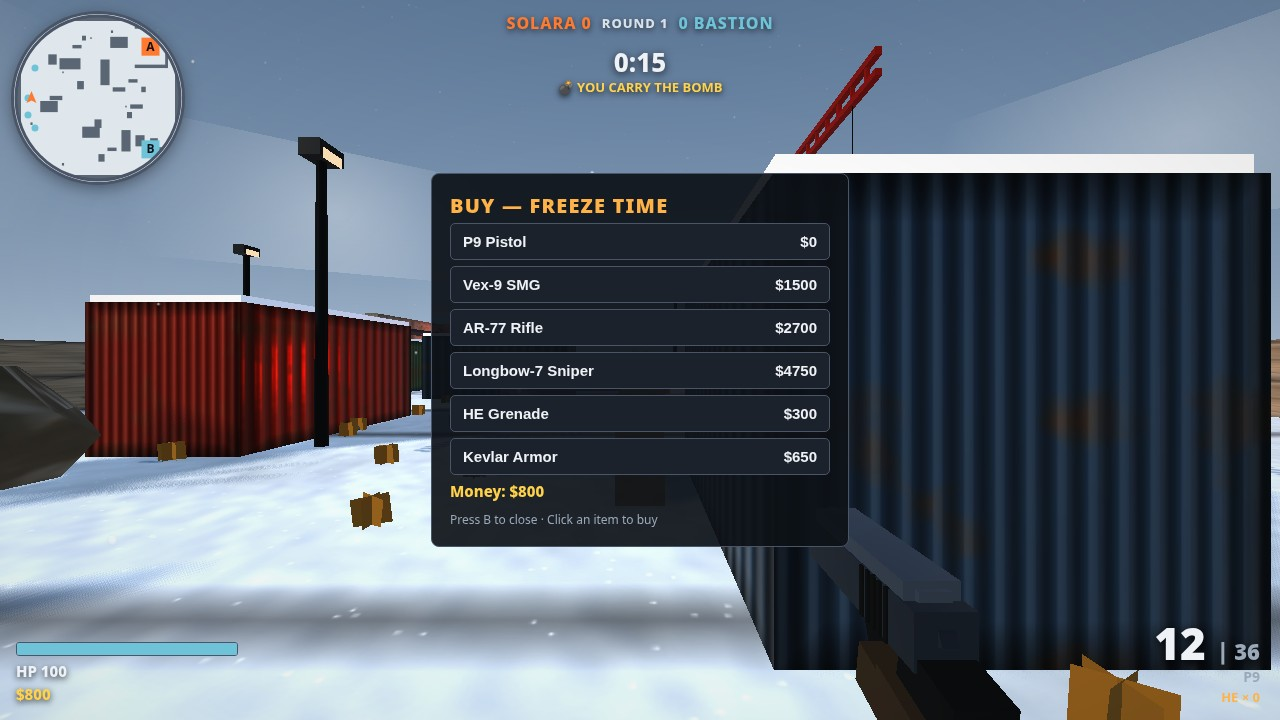
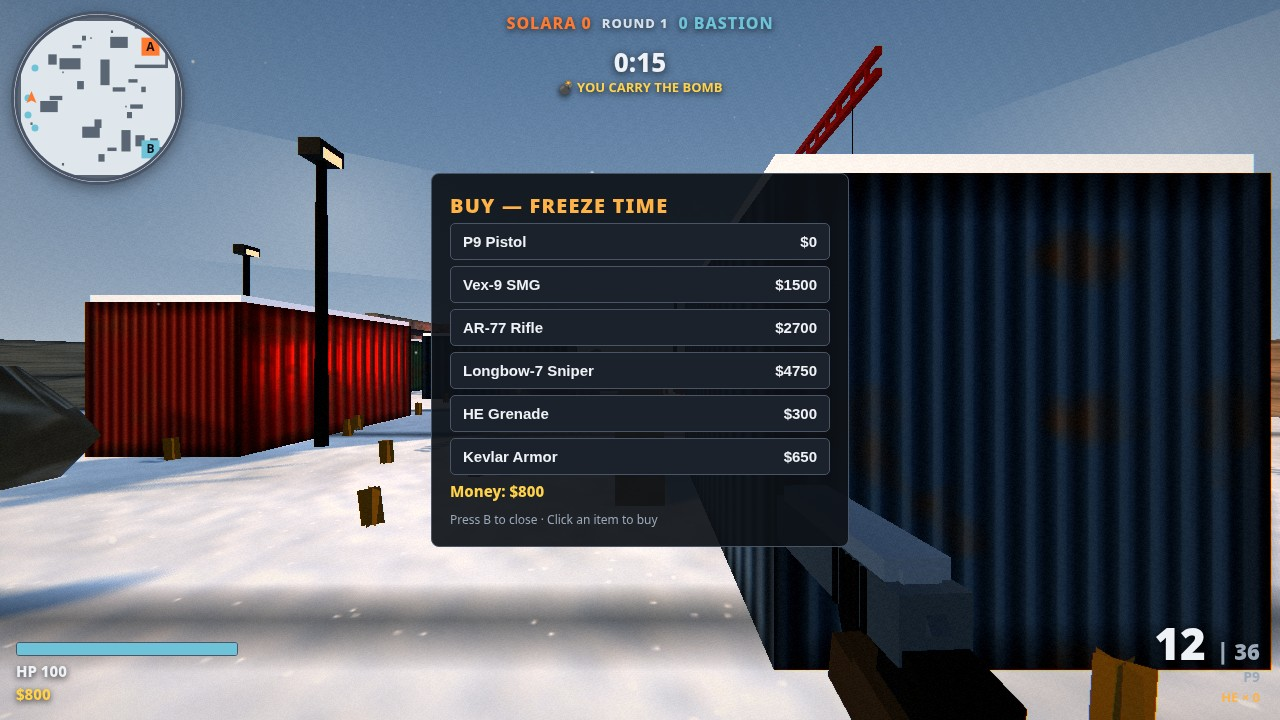
FROSTLINE v3.2: CoD pass — teal-orange grade + grain, big AR-77 viewmodel, warm/cool light, tracer in play shot, rubble + second fire

diff --git a/game/src/weapons.js b/game/src/weapons.js
@@ -78,13 +78,15 @@ let _mats = null;
 function mats() {
   if (_mats) return _mats;
   _mats = {
-    gunmetal: new THREE.MeshStandardMaterial({ color: 0x565e68, roughness: 0.42, metalness: 0.85 }),
-    gunmetalLight: new THREE.MeshStandardMaterial({ color: 0x7d8590, roughness: 0.38, metalness: 0.9 }),
+    gunmetal: new THREE.MeshStandardMaterial({ color: 0x707880, roughness: 0.42, metalness: 0.85 }), // v3.2: lighter — the gun read as a black slab (was 0x565e68)
+    gunmetalLight: new THREE.MeshStandardMaterial({ color: 0x9aa1ab, roughness: 0.38, metalness: 0.9 }), // v3.2: brighter edge metal (was 0x7d8590)
     polymer: new THREE.MeshStandardMaterial({ color: 0x1e2124, roughness: 0.85, metalness: 0.1 }),
+    fde: new THREE.MeshStandardMaterial({ color: 0x6b5a44, roughness: 0.8, metalness: 0.05 }), // flat dark earth furniture
+    wornDark: new THREE.MeshStandardMaterial({ color: 0x2a2e33, roughness: 0.6, metalness: 0.6 }), // worn / oiled steel
     wood: new THREE.MeshStandardMaterial({ color: 0x5a4028, roughness: 0.8, metalness: 0.0 }),
     glove: new THREE.MeshStandardMaterial({ color: 0x54483a, roughness: 0.95, metalness: 0.0 }),
     gloveCuff: new THREE.MeshStandardMaterial({ color: 0x6a5f4c, roughness: 0.95, metalness: 0.0 }),
-    glass: new THREE.MeshStandardMaterial({ color: 0x9fc4d8, roughness: 0.1, metalness: 0.4, emissive: 0x1a2c38, transparent: true, opacity: 0.5 }),
+    glass: new THREE.MeshStandardMaterial({ color: 0x9fc4d8, roughness: 0.1, metalness: 0.4, emissive: 0x2a4a5c, transparent: true, opacity: 0.65 }), // v3.2: glass reads (was emissive 0x1a2c38, opacity 0.5)
     reticle: new THREE.MeshBasicMaterial({ color: 0xff2222 }),
   };
   return _mats;
@@ -92,14 +94,16 @@ function mats() {
 
 // Holographic sight (EOTech-style): housing + hollow window + glass with a
 // glowing red reticle dot. The glass/dot face +Z, toward the shooter's eye.
-function holoSight(x, y, z) {
+// `s` scales the whole sight — CoD sights are big and prominent.
+function holoSight(x, y, z, s = 1) {
   const M = mats();
   const g = new THREE.Group();
   g.position.set(x, y, z);
-  g.add(box(0.05, 0.045, 0.08, M.gunmetal, 0, 0, 0)); // housing
+  g.scale.setScalar(s);
+  g.add(box(0.05, 0.045, 0.08, M.gunmetalLight, 0, 0, 0)); // housing, light metal so it reads
   g.add(box(0.04, 0.035, 0.082, M.polymer, 0, 0, 0)); // hollow window interior
   g.add(box(0.038, 0.032, 0.005, M.glass, 0, 0, 0.01)); // glass
-  const dot = new THREE.Mesh(new THREE.CircleGeometry(0.003, 8), M.reticle);
+  const dot = new THREE.Mesh(new THREE.CircleGeometry(0.0055, 8), M.reticle); // v3.2: bigger dot (was 0.003)
   dot.position.set(0, 0, 0.011);
   g.add(dot);
   return g;
@@ -176,23 +180,42 @@ export function buildViewmodel(id) {
     group.add(box(0.045, 0.14, 0.06, M.polymer, 0, -0.095, -0.10, 0.12)); // long mag
     group.add(box(0.05, 0.09, 0.07, M.polymer, 0, -0.065, 0.10, 0.2)); // grip
     group.add(box(0.05, 0.05, 0.12, M.polymer, 0, -0.055, 0.16)); // stock
-    group.add(holoSight(0, 0.06, -0.02)); // holographic sight (Gemini realism pass)
+    group.add(holoSight(0, 0.06, -0.02, 1.35)); // holographic sight (Gemini realism pass), scaled up v3.2
     group.add(box(0.012, 0.02, 0.012, M.gunmetalLight, 0, 0.045, -0.36)); // front post
     group.add(glovedHand(0, -0.07, 0.10, 0.2));
     group.add(glovedHand(0.01, -0.055, -0.16, 0.1)); // support hand on shroud
     muzzle.position.set(0, 0.005, -0.38);
   } else if (id === 'ar77') {
     group.add(box(0.062, 0.075, 0.36, M.gunmetal, 0, 0, -0.02)); // receiver
-    group.add(box(0.055, 0.06, 0.26, M.polymer, 0, -0.005, -0.30)); // handguard
+    group.add(box(0.055, 0.06, 0.26, M.fde, 0, -0.005, -0.30)); // handguard, flat dark earth
     group.add(cyl(0.014, 0.014, 0.22, M.gunmetal, 0, 0.01, -0.50)); // barrel
     group.add(box(0.05, 0.13, 0.07, M.polymer, 0, -0.09, -0.06, 0.22)); // curved mag
+    // Mag ribs + baseplate.
+    group.add(box(0.052, 0.008, 0.072, M.wornDark, 0, -0.06, -0.06));
+    group.add(box(0.052, 0.008, 0.072, M.wornDark, 0, -0.10, -0.06));
+    group.add(box(0.052, 0.012, 0.075, M.polymer, 0, -0.155, -0.06)); // baseplate
     group.add(box(0.05, 0.09, 0.07, M.polymer, 0, -0.065, 0.12, 0.2)); // grip
     group.add(box(0.055, 0.075, 0.16, M.wood, 0, -0.01, 0.24)); // stock
     group.add(box(0.03, 0.02, 0.12, M.gunmetalLight, 0, 0.045, -0.12)); // rail
-    group.add(holoSight(0, 0.07, -0.12)); // holographic sight (Gemini realism pass)
+    // Rail slots.
+    for (let i = 0; i < 3; i++) group.add(box(0.032, 0.006, 0.012, M.wornDark, 0, 0.056, -0.08 - i * 0.04));
+    // Picatinny rail steps along the handguard top (v3.2 Gemini review:
+    // greebling — small edges that catch the sun and break the flat read).
+    for (let i = 0; i < 8; i++) group.add(box(0.05, 0.008, 0.02, M.gunmetalLight, 0, 0.028, -0.18 - i * 0.032));
+    // Trigger + trigger guard (the AR-77 had none — a held weapon needs one).
+    group.add(box(0.012, 0.04, 0.09, M.polymer, 0, -0.055, 0.03, -0.3)); // guard
+    group.add(cyl(0.005, 0.005, 0.03, M.gunmetalLight, 0, -0.05, 0.03, 0)); // trigger
+    group.add(holoSight(0, 0.07, -0.12, 1.35)); // holographic sight (Gemini realism pass), scaled up v3.2
     // Edge wear: light strips along the receiver edges catch the bright sun.
     group.add(box(0.064, 0.005, 0.36, M.gunmetalLight, 0, 0.038, -0.02));
     group.add(box(0.064, 0.005, 0.36, M.gunmetalLight, 0, -0.038, -0.02));
+    // Ejection port recess + bolt + charging handle + selector (right side).
+    group.add(box(0.064, 0.025, 0.09, M.wornDark, 0, 0.01, -0.05)); // ejection port
+    group.add(box(0.066, 0.012, 0.05, M.gunmetalLight, 0, 0.01, -0.05)); // bolt
+    group.add(box(0.02, 0.015, 0.04, M.gunmetalLight, 0.038, 0.005, 0.06)); // charging handle
+    group.add(box(0.066, 0.008, 0.02, M.gunmetalLight, 0, -0.01, 0.04, 0, 0.6)); // selector switch
+    // Vertical foregrip under the handguard.
+    group.add(box(0.035, 0.09, 0.04, M.polymer, 0, -0.075, -0.34, 0.15));
     group.add(box(0.012, 0.022, 0.012, M.gunmetalLight, 0, 0.045, -0.42)); // front post
     group.add(glovedHand(0, -0.07, 0.12, 0.2));
     group.add(glovedHand(0.01, -0.06, -0.28, 0.08)); // support hand

diff --git a/game/src/map.js b/game/src/map.js
@@ -89,7 +89,7 @@ export function buildMap(scene) {
   const craneMat = std({ color: 0xa33327, roughness: 0.6, metalness: 0.4 });
   const barkMat = std({ color: 0x4a3a28, roughness: 0.95, metalness: 0 });
   const leafMat = std({ color: 0xc96a24, roughness: 0.9, metalness: 0 });
-  const grassMat = std({ color: 0x9a7d46, roughness: 0.95, metalness: 0, side: THREE.DoubleSide });
+  const grassMat = std({ color: 0x8a713c, roughness: 0.95, metalness: 0, side: THREE.DoubleSide }); // v3.2: darker, less cardboard-orange (was 0x9a7d46)
 
   // --- Ground ----------------------------------------------------------------
   const ground = new THREE.Mesh(new THREE.PlaneGeometry(MAP.w + 30, MAP.h + 30), snowMat);
@@ -272,6 +272,45 @@ export function buildMap(scene) {
     }
   }
 
+  // --- Destroyed wall slab + rebar (v3.2 CoD pass): shattered concrete
+  // panel leaning in mid, visual only (no collider — gameplay unchanged).
+  {
+    const slab = new THREE.Mesh(new THREE.BoxGeometry(2.6, 2.0, 0.3), concMat);
+    slab.position.set(3, 0.85, -2.5);
+    slab.rotation.set(0.15, 0.5, -0.28);
+    slab.castShadow = true; slab.receiveShadow = true;
+    group.add(slab);
+    const sRnd = mulberry32(777);
+    for (let i = 0; i < 4; i++) {
+      const bar = cylAt(steelMat, 0.012, 0.012, 0.9 + sRnd() * 0.5, 3 + (sRnd() - 0.5) * 1.6, 1.3 + sRnd() * 0.6, -2.5 + (sRnd() - 0.5) * 1.2, 6);
+      bar.rotation.set((sRnd() - 0.5) * 1.8, 0, (sRnd() - 0.5) * 1.8);
+      group.add(bar);
+    }
+    // Second rubble field across mid (visual only).
+    for (let i = 0; i < 10; i++) {
+      const cx = i < 5 ? 1 + (sRnd() - 0.5) * 4 : 5 + (sRnd() - 0.5) * 4;
+      const cz = i < 5 ? 3 + (sRnd() - 0.5) * 4 : -4 + (sRnd() - 0.5) * 4;
+      const chunk = new THREE.Mesh(new THREE.DodecahedronGeometry(0.08 + sRnd() * 0.2, 0), concMat);
+      chunk.position.set(cx, 0.08, cz);
+      chunk.rotation.set(sRnd() * Math.PI, sRnd() * Math.PI, sRnd() * Math.PI);
+      chunk.castShadow = true; chunk.receiveShadow = true;
+      group.add(chunk);
+      if (i % 3 === 0) {
+        const bar = cylAt(steelMat, 0.012, 0.012, 0.7, cx, 0.3, cz, 6);
+        bar.rotation.set((sRnd() - 0.5) * 1.6, 0, (sRnd() - 0.5) * 1.6);
+        group.add(bar);
+      }
+    }
+  }
+
+  // --- Burning barrel (v3.2 CoD pass): second fire + smoke column in mid.
+  group.add(cylAt(darkSteel, 0.35, 0.35, 0.9, 3, 0.45, 3, 12));
+  {
+    const crate = boxAt(woodMat, 0.9, 0.9, 0.9, 3.9, 0.45, 2.2, 0.4);
+    crate.rotation.z = 0.2;
+    group.add(crate);
+  }
+
   // --- Bare trees (trunk + naked branches + a few orange leaves) ---------------
   const tree = (x, z, s = 1) => {
     const rnd = mulberry32(Math.round(x * 10 + z));
@@ -314,7 +353,7 @@ export function buildMap(scene) {
 
   // --- Dry grass tufts poking through the snow (non-collidable) ------------------
   const rnd = mulberry32(2024);
-  const grassGeo = new THREE.PlaneGeometry(0.34, 0.3);
+  const grassGeo = new THREE.PlaneGeometry(0.2, 0.45); // v3.2: narrower + taller blades, less cardboard (was 0.34 x 0.3)
   for (let i = 0; i < 140; i++) { // Gemini realism pass: doubled tufts + rubble pebbles (was 70)
     const x = (rnd() - 0.5) * 42, z = (rnd() - 0.5) * 34;
     if (i % 3 === 0) {
@@ -389,8 +428,10 @@ export function buildMap(scene) {
     bounds: { minX: -MAP.halfW, maxX: MAP.halfW, minZ: -MAP.halfH, maxZ: MAP.halfH },
     fireSpots: [
       { pos: new THREE.Vector3(0, 0.4, 6), kind: 'bonfire' },
+      { pos: new THREE.Vector3(3, 0.9, 3), kind: 'bonfire' }, // v3.2: burning barrel in mid
       { pos: new THREE.Vector3(18.2, 1.1, -14.6), kind: 'furnace' },
       { pos: new THREE.Vector3(20.5, 7, 16), kind: 'chimney' },
+      { pos: new THREE.Vector3(15, 4.5, -12), kind: 'chimney' }, // v3.2: smoke column over the foundry
     ],
   };
 }

diff --git a/game/src/sky.js b/game/src/sky.js
@@ -7,10 +7,10 @@
 // (aerial perspective: far lanes fade into pale haze, never cut to black).
 import * as THREE from 'three';
 
-// Pale winter sun, low in the south-west. Shared by the sky shader, the
-// directional light, and the cold-daylight look.
+// Warm winter sun, low in the south-west. Shared by the sky shader, the
+// directional light, and the warm/cool CoD look: golden sun vs cool shadows.
 export const SUN_DIR = new THREE.Vector3(-0.55, 0.42, -0.72).normalize();
-export const SUN_COLOR = 0xfff2dd;
+export const SUN_COLOR = 0xffd9a6; // v3.2 CoD pass: golden hour warmth (was 0xfff2dd pale)
 export const HORIZON_COLOR = new THREE.Color(0xdce5ee);
 export const ZENITH_COLOR = new THREE.Color(0x91a9c1); // Gemini realism pass: brighter sky (was 0xc7d2dc / 0x5d748e)
 
@@ -34,9 +34,10 @@ void main() {
   float h = clamp(d.y, -0.08, 1.0);
   // Cold daylight gradient: pale horizon, steel blue overhead.
   vec3 col = mix(uHorizon, uZenith, pow(max(h, 0.0), 0.5));
-  // Faint warmth toward the sun's azimuth only — snow stays cold.
-  float toward = pow(max(dot(normalize(vec3(d.x, 0.0, d.z)), normalize(vec3(uSunDir.x, 0.0, uSunDir.z))), 0.0), 3.0);
-  col += uSunColor * toward * (1.0 - pow(max(h, 0.0), 0.6)) * 0.22;
+  // Warmth toward the sun's azimuth — golden light spilling across the
+  // snow, cool blue everywhere else (the CoD warm/cool contrast).
+  float toward = pow(max(dot(normalize(vec3(d.x, 0.0, d.z)), normalize(vec3(uSunDir.x, 0.0, uSunDir.z))), 0.0), 2.0);
+  col += uSunColor * toward * (1.0 - pow(max(h, 0.0), 0.6)) * 0.38;
   // Below the horizon: pale ground haze, not black.
   col = mix(vec3(0.62, 0.66, 0.70), col, smoothstep(-0.08, 0.02, d.y));
   // Pale sun disc + soft halo.
@@ -89,7 +90,7 @@ export function createClouds(seed = 4) {
   for (const [x, y, z, w] of spots) {
     const m = new THREE.Mesh(
       new THREE.PlaneGeometry(w, w * 0.36),
-      new THREE.MeshBasicMaterial({ map: t, transparent: true, depthWrite: false, fog: false, opacity: 0.5 }),
+      new THREE.MeshBasicMaterial({ map: t, transparent: true, depthWrite: false, fog: false, opacity: 0.32 }), // v3.2: fainter — cloud planes read as hard diagonal bands (was 0.5)
     );
     m.position.set(x, y, z);
     m.lookAt(0, y * 0.4, 0);
@@ -117,7 +118,7 @@ export function applyEnvironment(renderer, scene, skyMesh) {
 // the vendored core (no examples/jsm), so shadows use PCF + radius —
 // the honest fallback the design doc allows.
 export function createLights(scene) {
-  const hemi = new THREE.HemisphereLight(0xdfe8f2, 0x9aa7b5, 0.95);
+  const hemi = new THREE.HemisphereLight(0xd6e2f0, 0x8d99a8, 0.95); // v3.2: cooler shadows for the warm/cool split
   scene.add(hemi);
   const sun = new THREE.DirectionalLight(SUN_COLOR, 3.2); // Rebalance after v3.1 screenshots: 3.8 clipped snow highlights (was 2.2 in v3)
   sun.position.copy(SUN_DIR).multiplyScalar(60);
@@ -128,10 +129,10 @@ export function createLights(scene) {
   sun.shadow.camera.near = 10; sun.shadow.camera.far = 140;
   sun.shadow.bias = -0.0004;
   sun.shadow.normalBias = 0.02;
-  sun.shadow.radius = 6; // soft edge (PCF + radius; r187 removed PCFSoft) — Gemini realism pass: softer scattered snow light (was 4)
+  sun.shadow.radius = 3; // v3.2 Gemini review: harder shadows for the CoD high-contrast look (was 6)
   scene.add(sun);
   scene.add(sun.target);
-  const fill = new THREE.DirectionalLight(0xffd9b0, 0.25);
+  const fill = new THREE.DirectionalLight(0xffd9b0, 0.4); // v3.2: stronger warm bounce (was 0.25)
   fill.position.set(28, 14, 30);
   scene.add(fill);
   scene.fog = new THREE.FogExp2(0xdce5ee, 0.005); // Gemini realism pass: thinner fog, bright horizon stays visible (was 0xc7d2dc, 0.008)

diff --git a/game/src/main.js b/game/src/main.js
@@ -105,17 +105,35 @@ hud.audio = audio;
 // game must never die for a cosmetic pass.
 const POST_VERT = `varying vec2 vUv; void main(){ vUv = uv; gl_Position = vec4(position.xy, 0.0, 1.0); }`;
 const POST_FRAG = `
-varying vec2 vUv; uniform sampler2D tDiffuse;
+// CoD-style grade: teal-orange split tone, S-curve contrast, film grain,
+// subtle chromatic aberration, stronger vignette. Written from scratch.
+varying vec2 vUv; uniform sampler2D tDiffuse; uniform float uTime;
+float hash(vec2 p){ return fract(sin(dot(p, vec2(127.1, 311.7))) * 43758.5453); }
 void main(){
-  vec3 c = texture2D(tDiffuse, vUv).rgb;
-  // Gentle S-curve lift + a touch of saturation for the cold grade.
-  float l = dot(c, vec3(0.299, 0.587, 0.114));
-  c = mix(vec3(l), c, 1.08);
-  c = pow(c, vec3(0.96));
-  // Vignette.
   vec2 d = vUv - 0.5;
-  float vig = 1.0 - dot(d, d) * 0.25; // Gemini realism pass: lighter vignette keeps the frame bright (was 0.55)
-  gl_FragColor = vec4(c * vig, 1.0);
+  float r2 = dot(d, d);
+  // Chromatic aberration: radial, strongest at the frame edges.
+  float ca = 0.004 * r2;
+  vec3 c;
+  c.r = texture2D(tDiffuse, vUv + d * ca).r;
+  c.g = texture2D(tDiffuse, vUv).g;
+  c.b = texture2D(tDiffuse, vUv - d * ca).b;
+  // S-curve contrast.
+  c = clamp((c - 0.5) * 1.10 + 0.5, 0.0, 1.0);
+  // Teal-orange split grade: shadows toward cool teal, highlights warm.
+  float l = dot(c, vec3(0.299, 0.587, 0.114));
+  vec3 shadowTint = vec3(0.93, 1.02, 1.07);
+  vec3 highTint = vec3(1.03, 1.0, 0.97); // v3.2: softer — 1.07 pushed bright snow pink
+  c *= mix(shadowTint, highTint, smoothstep(0.12, 0.78, l));
+  // A touch of saturation.
+  c = mix(vec3(l), c, 1.1);
+  // Vignette.
+  float vig = 1.0 - r2 * 0.35;
+  c *= vig;
+  // Animated film grain (subtle: +/-1.8%).
+  float g = hash(vUv * vec2(1920.0, 1080.0) + fract(uTime * 0.61) * 43.0) - 0.5;
+  c += g * 0.036;
+  gl_FragColor = vec4(c, 1.0);
 }`;
 let postOK = true;
 let rt = null, postScene = null, postCam = null, postMat = null;
@@ -125,7 +143,7 @@ try {
   postCam = new THREE.OrthographicCamera(-1, 1, 1, -1, 0, 1);
   postMat = new THREE.ShaderMaterial({
     vertexShader: POST_VERT, fragmentShader: POST_FRAG,
-    uniforms: { tDiffuse: { value: rt.texture } }, depthTest: false, depthWrite: false,
+    uniforms: { tDiffuse: { value: rt.texture }, uTime: { value: 0 } }, depthTest: false, depthWrite: false,
   });
   postScene.add(new THREE.Mesh(new THREE.PlaneGeometry(2, 2), postMat));
 } catch {
@@ -143,8 +161,12 @@ function setupShot() {
     player.yaw = -Math.PI / 2 - 0.3;
     player.pitch = 0.02;
   } else if (SHOT === 'play') {
-    // Mid-round: advance the sim 5 s so bots are mid-push and the player is
-    // at mid with the bonfire and crane in frame.
+    // Mid-round: the player has bought the AR-77 (the CoD hero viewmodel),
+    // advance the sim 5 s so bots are mid-push and the player is at mid
+    // with the bonfire and crane in frame.
+    player.money = 10000;
+    player.buy('ar77');
+    player.equip(player.slots.length - 1);
     player.pos.set(-6, 0, 1);
     player.yaw = -Math.PI / 2 - 0.12;
     player.pitch = 0.01;
@@ -216,6 +238,7 @@ function frame(now) {
   // Render (post pass, with direct fallback).
   try {
     if (postOK) {
+      if (postMat) postMat.uniforms.uTime.value = t;
       renderer.setRenderTarget(rt);
       renderer.render(scene, camera);
       renderer.setRenderTarget(null);

diff --git a/game/src/player.js b/game/src/player.js
@@ -78,7 +78,20 @@ export class Player {
     const { group, muzzle } = buildViewmodel(this.slots[index].def.id);
     this.viewmodel = group;
     this.muzzle = muzzle;
-    group.position.set(0.26, -0.24, -0.45);
+    // CoD-style viewmodel pose: bigger, closer, barrel angled toward the
+    // frame centre. Scale/pose per weapon kind; stock rear must stay in
+    // front of the camera near plane (z < -0.1) or it clips.
+    const pose = {
+      p9: { s: 1.3, x: 0.27, y: -0.25, z: -0.50, ry: 0.06 },
+      vex9: { s: 1.4, x: 0.29, y: -0.26, z: -0.55, ry: 0.10 },
+      ar77: { s: 1.4, x: 0.30, y: -0.27, z: -0.55, ry: 0.12 },
+      longbow: { s: 1.4, x: 0.30, y: -0.27, z: -0.55, ry: 0.10 },
+      he: { s: 1.3, x: 0.26, y: -0.25, z: -0.48, ry: 0.05 },
+    }[this.slots[index].def.id] || { s: 1.3, x: 0.26, y: -0.24, z: -0.45, ry: 0 };
+    this.vmBase = pose;
+    group.scale.setScalar(pose.s);
+    group.rotation.y = pose.ry;
+    group.position.set(pose.x, pose.y, pose.z);
     this.camera.add(group);
   }
   buy(id) {
@@ -194,12 +207,15 @@ export class Player {
     // Viewmodel: ADS pulls it to centre, firing kicks it back, bob sways it.
     if (this.viewmodel) {
       const kick = this.flashT > 0 ? 0.06 : 0;
+      const vm = this.vmBase || { x: 0.26, y: -0.24, z: -0.45 };
       this.viewmodel.position.set(
-        0.26 * (1 - ads) + bobX * 0.4,
-        -0.24 + bobY * 0.5 + (ads ? 0.055 : 0),
-        -0.45 + kick,
+        vm.x * (1 - ads) + bobX * 0.4,
+        vm.y + bobY * 0.5 + (ads ? 0.055 : 0),
+        vm.z + kick,
       );
       this.viewmodel.rotation.x = this.recoilPitch * 1.4 + Math.sin(this.bobPhase) * 0.008;
+      // ADS straightens the rifle so the sight sits dead centre.
+      this.viewmodel.rotation.y = (this.vmBase ? this.vmBase.ry : 0) * (1 - ads);
     }
     this.flashT = Math.max(0, this.flashT - 0.05);
   }

diff --git a/game/src/effects.js b/game/src/effects.js
@@ -194,7 +194,7 @@ export class Fire {
     this.t += dt;
     // Flicker: sum of two sines, deterministic.
     const f = 0.75 + 0.25 * Math.sin(this.t * 11.3) * Math.sin(this.t * 5.1 + 1.7);
-    this.light.intensity = 30 * this.scale * f;
+    this.light.intensity = 24 * this.scale * f; // v3.2: less wash on the snow (was 30)
     for (let i = 0; i < this.flames.length; i++) {
       const s = this.flames[i];
       const w = (0.75 + 0.3 * Math.sin(this.t * 9 + i * 2.1)) * this.scale;
